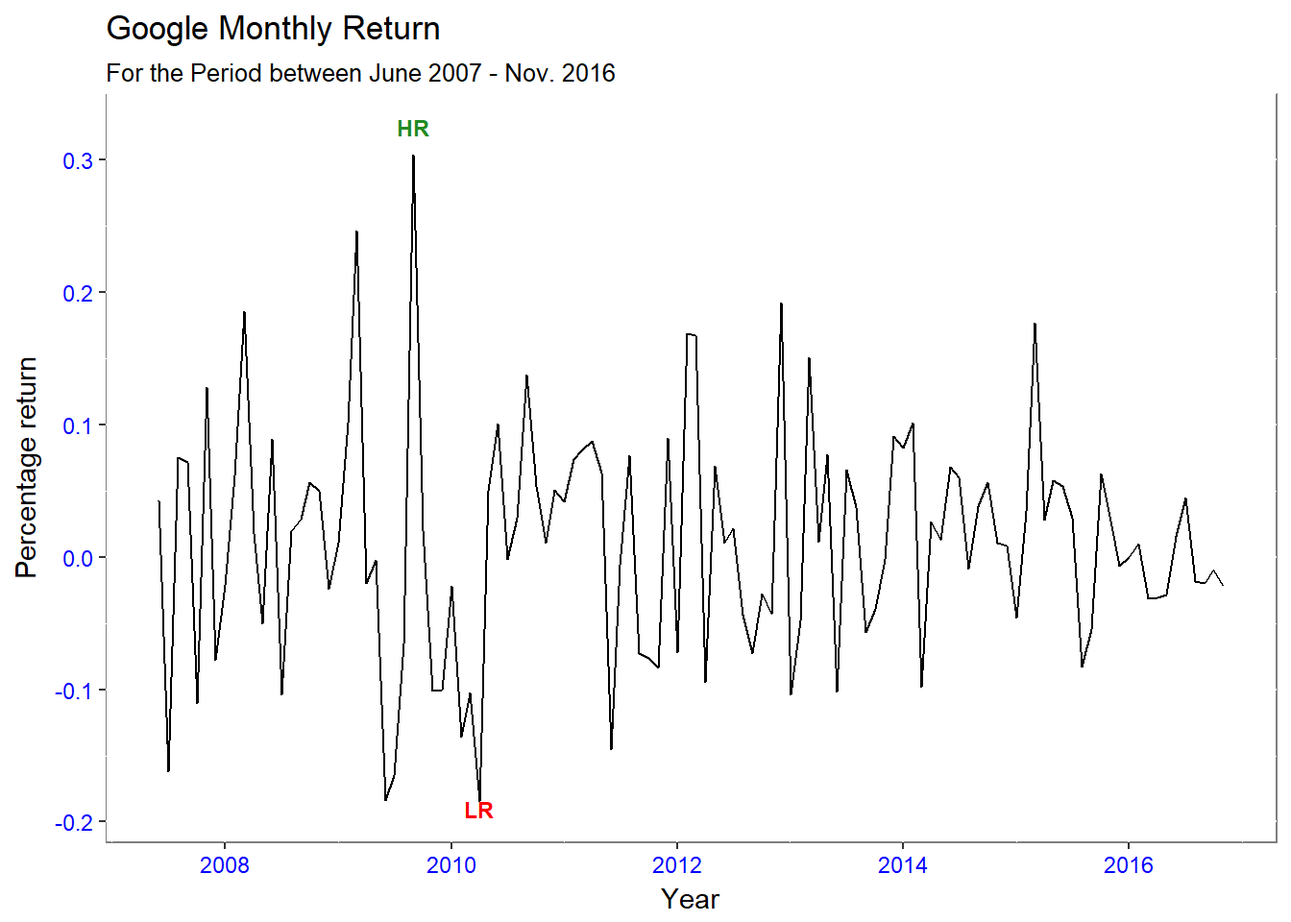
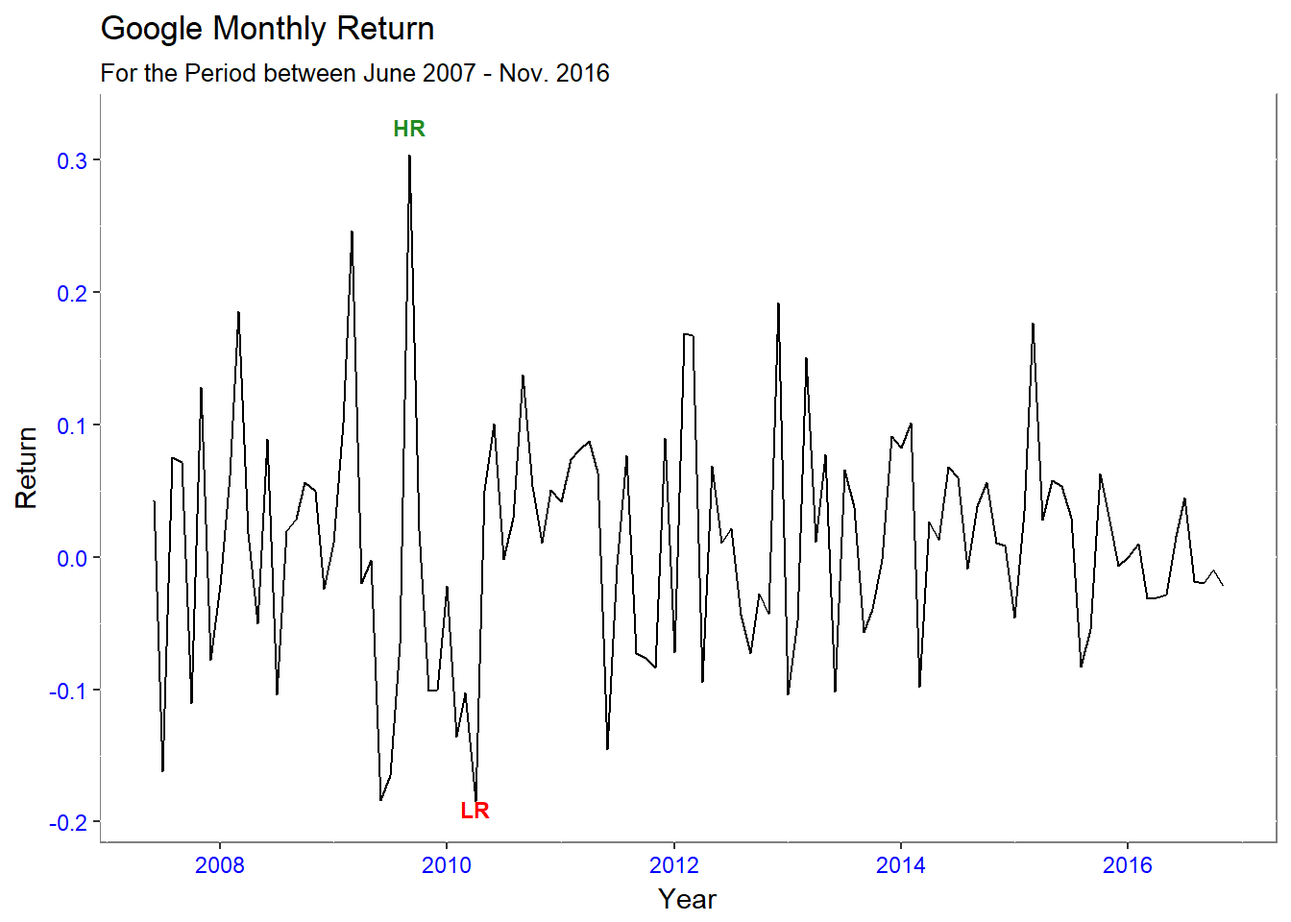
edits- changed labels on graphs

diff --git a/content/blog/2017-02-06-fund-returns.html b/content/blog/2017-02-06-fund-returns.html
@@ -76,7 +76,7 @@ g &lt;- g + ggtitle(&quot;Google Monthly Return&quot;, subtitle = &quot;For the 
             axis.title.x = element_text(size = rel(1.0), angle = 360))
 
 g &lt;- g + labs(x = &quot;Year&quot;,
-        y =&quot;Percentage return&quot;) 
+        y =&quot;Return&quot;) 
 
 g + annotate(&quot;text&quot;,x=as.Date(&quot;2009-09-01&quot;),y=0.3245,label=&quot;HR&quot;,fontface=&quot;bold&quot;,size=3, colour = &quot;forestgreen&quot;) +
 annotate(&quot;text&quot;,x=as.Date(&quot;2010-04-01&quot;),y=-0.1900,label=&quot;LR&quot;,fontface=&quot;bold&quot;,size=3,colour =&quot;red&quot;) </code></pre>
@@ -100,7 +100,7 @@ rm(&quot;p1&quot;,&quot;p2&quot;, &quot;p3&quot;,&quot;p4&quot;) # Removal of th
 p &lt;- ggplot(data = portfolio, aes(x = Year, y =PercentageReturn, colour = Stockticker))+geom_line()
 p + labs(
         x = &quot; Year&quot;,
-        y = &quot;Percentage return&quot;,
+        y = &quot;Return&quot;,
         colour = &quot;Stock ticker&quot;) +
     ggtitle(&quot; Apple, Amazon and Google Stock Returns&quot;,subtitle =&quot; For the period June 2007 - Nov. 2016&quot;)</code></pre>
 <p><img src="/blog/2017-02-06-fund-returns_files/figure-html/unnamed-chunk-7-1.png" width="672" /></p>
@@ -122,11 +122,11 @@ rm(&quot;p1&quot;,&quot;p2&quot;, &quot;p3&quot;,&quot;p4&quot;) # Removal of th
 <pre class="r"><code>merged_returns &lt;- merge.xts(AMZN,MSFT,AAPL,GOOG_) # merging the separate share returns into one xts object.
 
 dygraph(merged_returns, main = &quot;Amazon v Microsoft v Apple v Google&quot;) %&gt;% # Using pipes to connect the codes
-  dyAxis(&quot;y&quot;, label =&quot;%&quot;) %&gt;%
+  dyAxis(&quot;y&quot;, label =&quot;Return&quot;) %&gt;%
   dyAxis(&quot;x&quot;, label =&quot;Year&quot;) %&gt;%
   dyOptions(colors = RColorBrewer::brewer.pal(4, &quot;Set2&quot;)) </code></pre>
 <div id="htmlwidget-1" style="width:672px;height:480px;" class="dygraphs html-widget"></div>
-<script type="application/json" data-for="htmlwidget-1">{"x":{"attrs":{"axes":{"x":{"pixelsPerLabel":60,"drawAxis":true},"y":{"drawAxis":true}},"title":"Amazon v Microsoft v Apple v Google","labels":["month","AMZN","MSFT","AAPL","GOOG_"],"legend":"auto","retainDateWindow":false,"ylabel":"%","xlabel":"Year","stackedGraph":false,"fillGraph":false,"fillAlpha":0.15,"stepPlot":false,"drawPoints":false,"pointSize":1,"drawGapEdgePoints":false,"connectSeparatedPoints":false,"strokeWidth":1,"strokeBorderColor":"white","colors":["#66C2A5","#FC8D62","#8DA0CB","#E78AC3"],"colorValue":0.5,"colorSaturation":1,"includeZero":false,"drawAxesAtZero":false,"logscale":false,"axisTickSize":3,"axisLineColor":"black","axisLineWidth":0.3,"axisLabelColor":"black","axisLabelFontSize":14,"axisLabelWidth":60,"drawGrid":true,"gridLineWidth":0.3,"rightGap":5,"digitsAfterDecimal":2,"labelsKMB":false,"labelsKMG2":false,"labelsUTC":false,"maxNumberWidth":6,"animatedZooms":false,"mobileDisableYTouch":true},"scale":"monthly","annotations":[],"shadings":[],"events":[],"format":"date","data":[["2007-06-01T00:00:00.000Z","2007-07-01T00:00:00.000Z","2007-08-01T00:00:00.000Z","2007-09-01T00:00:00.000Z","2007-10-01T00:00:00.000Z","2007-11-01T00:00:00.000Z","2007-12-01T00:00:00.000Z","2008-01-01T00:00:00.000Z","2008-02-01T00:00:00.000Z","2008-03-01T00:00:00.000Z","2008-04-01T00:00:00.000Z","2008-05-01T00:00:00.000Z","2008-06-01T00:00:00.000Z","2008-07-01T00:00:00.000Z","2008-08-01T00:00:00.000Z","2008-09-01T00:00:00.000Z","2008-10-01T00:00:00.000Z","2008-11-01T00:00:00.000Z","2008-12-01T00:00:00.000Z","2009-01-01T00:00:00.000Z","2009-02-01T00:00:00.000Z","2009-03-01T00:00:00.000Z","2009-04-01T00:00:00.000Z","2009-05-01T00:00:00.000Z","2009-06-01T00:00:00.000Z","2009-07-01T00:00:00.000Z","2009-08-01T00:00:00.000Z","2009-09-01T00:00:00.000Z","2009-10-01T00:00:00.000Z","2009-11-01T00:00:00.000Z","2009-12-01T00:00:00.000Z","2010-01-01T00:00:00.000Z","2010-02-01T00:00:00.000Z","2010-03-01T00:00:00.000Z","2010-04-01T00:00:00.000Z","2010-05-01T00:00:00.000Z","2010-06-01T00:00:00.000Z","2010-07-01T00:00:00.000Z","2010-08-01T00:00:00.000Z","2010-09-01T00:00:00.000Z","2010-10-01T00:00:00.000Z","2010-11-01T00:00:00.000Z","2010-12-01T00:00:00.000Z","2011-01-01T00:00:00.000Z","2011-02-01T00:00:00.000Z","2011-03-01T00:00:00.000Z","2011-04-01T00:00:00.000Z","2011-05-01T00:00:00.000Z","2011-06-01T00:00:00.000Z","2011-07-01T00:00:00.000Z","2011-08-01T00:00:00.000Z","2011-09-01T00:00:00.000Z","2011-10-01T00:00:00.000Z","2011-11-01T00:00:00.000Z","2011-12-01T00:00:00.000Z","2012-01-01T00:00:00.000Z","2012-02-01T00:00:00.000Z","2012-03-01T00:00:00.000Z","2012-04-01T00:00:00.000Z","2012-05-01T00:00:00.000Z","2012-06-01T00:00:00.000Z","2012-07-01T00:00:00.000Z","2012-08-01T00:00:00.000Z","2012-09-01T00:00:00.000Z","2012-10-01T00:00:00.000Z","2012-11-01T00:00:00.000Z","2012-12-01T00:00:00.000Z","2013-01-01T00:00:00.000Z","2013-02-01T00:00:00.000Z","2013-03-01T00:00:00.000Z","2013-04-01T00:00:00.000Z","2013-05-01T00:00:00.000Z","2013-06-01T00:00:00.000Z","2013-07-01T00:00:00.000Z","2013-08-01T00:00:00.000Z","2013-09-01T00:00:00.000Z","2013-10-01T00:00:00.000Z","2013-11-01T00:00:00.000Z","2013-12-01T00:00:00.000Z","2014-01-01T00:00:00.000Z","2014-02-01T00:00:00.000Z","2014-03-01T00:00:00.000Z","2014-04-01T00:00:00.000Z","2014-05-01T00:00:00.000Z","2014-06-01T00:00:00.000Z","2014-07-01T00:00:00.000Z","2014-08-01T00:00:00.000Z","2014-09-01T00:00:00.000Z","2014-10-01T00:00:00.000Z","2014-11-01T00:00:00.000Z","2014-12-01T00:00:00.000Z","2015-01-01T00:00:00.000Z","2015-02-01T00:00:00.000Z","2015-03-01T00:00:00.000Z","2015-04-01T00:00:00.000Z","2015-05-01T00:00:00.000Z","2015-06-01T00:00:00.000Z","2015-07-01T00:00:00.000Z","2015-08-01T00:00:00.000Z","2015-09-01T00:00:00.000Z","2015-10-01T00:00:00.000Z","2015-11-01T00:00:00.000Z","2015-12-01T00:00:00.000Z","2016-01-01T00:00:00.000Z","2016-02-01T00:00:00.000Z","2016-03-01T00:00:00.000Z","2016-04-01T00:00:00.000Z","2016-05-01T00:00:00.000Z","2016-06-01T00:00:00.000Z","2016-07-01T00:00:00.000Z","2016-08-01T00:00:00.000Z","2016-09-01T00:00:00.000Z","2016-10-01T00:00:00.000Z","2016-11-01T00:00:00.000Z"],[-0.0494,-0.1647,-0.0243,-0.0361,-0.017,0.1176,-0.3048,0.1465,0.0418,0.1859,0.0591,-0.0218,-0.0454,0.039,0.0166,0.5413,0.1273,-0.0106,0.1481,0.0174,0.1657,-0.0429,0.0158,0.023,-0.1613,-0.1703,0.1059,0.1028,0.038,-0.1016,0.041,0.0586,-0.0996,-0.2133,-0.254,0.2009,0.147,0.1015,0.1335,0.0964,-0.0314,0.0727,0.0251,-0.0533,0.1499,0.2726,0.1439,-0.0102,-0.0677,-0.0559,0.1467,0.0098,-0.0849,-0.1291,0.079,0.0589,0.2582,0.052,0.0616,0.0262,-0.0576,0.0215,0.0395,0.087,0.0045,0.0397,0.0882,-0.0328,0.0046,-0.0126,-0.0994,-0.0998,0.1233,-0.0759,0.127,0.1451,-0.0819,0.0725,0.0217,0.0642,0.0244,-0.0843,0.0823,-0.0047,0.0583,-0.0046,0.0084,-0.0476,0.0606,0.0315,0.0847,-0.0672,0.1127,0.1644,0.0813,0.0131,-0.1006,0.0095,-0.0711,-0.0958,0.0277,0.0391,-0.0363,0.0832,-0.049,-0.0527,0.1086,-0.0835,0.1424,0.0723,-0.0212,0.1335,0.0177,0.0113],[0.0765,-0.0422,0.0127,-0.1125,-0.0585,0.0287,0.0326,0.0721,0.0642,0.0497,0.0261,0.017,0.0335,-0.084,-0.0106,0.0743,0.0284,-0.0398,-0.0163,-0.0055,0.0254,0.2495,-0.0842,0.0595,-0.0843,-0.1624,0.0434,0.0049,-0.0034,-0.0286,-0.0651,0.0653,-0.022,-0.1634,-0.0884,-0.0386,-0.1204,-0.0491,0.1375,0.1029,0.0376,0.1379,-0.0105,0.0539,0.0434,0.0781,0.0653,0.0364,-0.0755,0.0221,0.0216,0.0427,-0.1514,-0.1081,0.1217,-0.0858,0.0435,0.089,-0.047,0.1049,-0.0064,-0.0358,-0.0448,0.0209,-0.0288,0.0396,0.0538,-0.0231,-0.0643,0.0699,-0.0322,0.0149,0.1375,0.0819,0.0164,-0.0074,-0.0824,0.048,-0.0366,0.0527,-0.0344,-0.041,-0.0596,0.0034,0.0277,0.0211,0.0291,0.1569,0.0618,-0.0103,-0.0782,0.0564,-0.0036,0.064,0.085,-0.0189,0.0115,0.02,0.07,-0.0144,0.0205,0.0186,0.035,0.0592,0.0205,0.0127,0.0247,-0.0284,-0.1302,0.0931,-0.0727,0.1963,-0.0303,-0.0578],[0.0504,-0.093,-0.0842,0.1223,-0.1509,-0.0418,0.1867,-0.0016,0.1346,0.0533,0.1305,-0.0744,0.0105,-0.0131,0.0981,0.0742,0.2143,0.007,0.0796,0.051,0.1082,0.2377,-0.0407,0.087,-0.3166,-0.0764,0.1478,0.2122,0.0851,-0.1129,-0.0507,0.0666,-0.3296,-0.0534,-0.1387,-0.079,0.056,-0.0091,0.177,0.197,0.0793,0.0487,0.1472,0.0295,0.1019,0.017,0.0605,0.0541,-0.0886,0.0654,0.1485,0.111,-0.0161,-0.0208,0.0227,-0.055,0.1672,0.0607,0.0338,0.0367,0.052,0.0409,-0.0133,0.0046,-0.0066,-0.035,0.1633,-0.0145,-0.0091,0.0615,-0.0558,0.0597,0.1271,0.1883,0.1053,-0.026,-0.0107,0.0109,0.0458,0.0939,0.0028,-0.1076,-0.0124,-0.0907,-0.1441,-0.0253,0.0029,0.0003,0.0224,-0.1183,0.1412,0.0838,-0.0215,0.0964,0.0701,0.0089,-0.1077,0.0575,0.02,0.0994,0.0787,0.0277,0.0287,0.0775,-0.0171,0.072,0.106,-0.0719,0.0614,0.1008,-0.0314,0.0058,0.0453,-0.0372],[0.0429,-0.1619,0.0755,0.0716,-0.1104,0.1278,-0.0781,-0.0209,0.0617,0.1853,0.0177,-0.0502,0.0891,-0.1038,0.0194,0.0289,0.0563,0.0498,-0.0243,0.0103,0.101,0.2463,-0.0198,-0.0022,-0.1839,-0.165,-0.0652,0.3038,0.02,-0.1014,-0.1001,-0.0221,-0.1355,-0.1028,-0.1848,0.0501,0.1004,-0.0016,0.0298,0.1376,0.0537,0.0104,0.0509,0.042,0.074,0.0812,0.0874,0.0634,-0.1452,-0.0059,0.0765,-0.073,-0.0762,-0.0838,0.0897,-0.0718,0.1684,0.1672,-0.0945,0.0688,0.0108,0.0217,-0.0434,-0.0727,-0.0277,-0.0428,0.1922,-0.1039,-0.0479,0.1507,0.0114,0.0776,-0.1019,0.0657,0.0372,-0.0567,-0.0397,-0.0014,0.0912,0.0823,0.1013,-0.0983,0.0266,0.0129,0.0683,0.0602,-0.0087,0.0383,0.0566,0.0105,0.0084,-0.046,0.0343,0.1766,0.0281,0.0577,0.0538,0.0294,-0.0827,-0.0544,0.0631,0.0275,-0.0064,0,0.0101,-0.0317,-0.0309,-0.0285,0.0154,0.0447,-0.0186,-0.0195,-0.0097,-0.0218]],"fixedtz":false,"tzone":"UTC"},"evals":[],"jsHooks":[]}</script>
+<script type="application/json" data-for="htmlwidget-1">{"x":{"attrs":{"axes":{"x":{"pixelsPerLabel":60,"drawAxis":true},"y":{"drawAxis":true}},"title":"Amazon v Microsoft v Apple v Google","labels":["month","AMZN","MSFT","AAPL","GOOG_"],"legend":"auto","retainDateWindow":false,"ylabel":"Return","xlabel":"Year","stackedGraph":false,"fillGraph":false,"fillAlpha":0.15,"stepPlot":false,"drawPoints":false,"pointSize":1,"drawGapEdgePoints":false,"connectSeparatedPoints":false,"strokeWidth":1,"strokeBorderColor":"white","colors":["#66C2A5","#FC8D62","#8DA0CB","#E78AC3"],"colorValue":0.5,"colorSaturation":1,"includeZero":false,"drawAxesAtZero":false,"logscale":false,"axisTickSize":3,"axisLineColor":"black","axisLineWidth":0.3,"axisLabelColor":"black","axisLabelFontSize":14,"axisLabelWidth":60,"drawGrid":true,"gridLineWidth":0.3,"rightGap":5,"digitsAfterDecimal":2,"labelsKMB":false,"labelsKMG2":false,"labelsUTC":false,"maxNumberWidth":6,"animatedZooms":false,"mobileDisableYTouch":true},"scale":"monthly","annotations":[],"shadings":[],"events":[],"format":"date","data":[["2007-06-01T00:00:00.000Z","2007-07-01T00:00:00.000Z","2007-08-01T00:00:00.000Z","2007-09-01T00:00:00.000Z","2007-10-01T00:00:00.000Z","2007-11-01T00:00:00.000Z","2007-12-01T00:00:00.000Z","2008-01-01T00:00:00.000Z","2008-02-01T00:00:00.000Z","2008-03-01T00:00:00.000Z","2008-04-01T00:00:00.000Z","2008-05-01T00:00:00.000Z","2008-06-01T00:00:00.000Z","2008-07-01T00:00:00.000Z","2008-08-01T00:00:00.000Z","2008-09-01T00:00:00.000Z","2008-10-01T00:00:00.000Z","2008-11-01T00:00:00.000Z","2008-12-01T00:00:00.000Z","2009-01-01T00:00:00.000Z","2009-02-01T00:00:00.000Z","2009-03-01T00:00:00.000Z","2009-04-01T00:00:00.000Z","2009-05-01T00:00:00.000Z","2009-06-01T00:00:00.000Z","2009-07-01T00:00:00.000Z","2009-08-01T00:00:00.000Z","2009-09-01T00:00:00.000Z","2009-10-01T00:00:00.000Z","2009-11-01T00:00:00.000Z","2009-12-01T00:00:00.000Z","2010-01-01T00:00:00.000Z","2010-02-01T00:00:00.000Z","2010-03-01T00:00:00.000Z","2010-04-01T00:00:00.000Z","2010-05-01T00:00:00.000Z","2010-06-01T00:00:00.000Z","2010-07-01T00:00:00.000Z","2010-08-01T00:00:00.000Z","2010-09-01T00:00:00.000Z","2010-10-01T00:00:00.000Z","2010-11-01T00:00:00.000Z","2010-12-01T00:00:00.000Z","2011-01-01T00:00:00.000Z","2011-02-01T00:00:00.000Z","2011-03-01T00:00:00.000Z","2011-04-01T00:00:00.000Z","2011-05-01T00:00:00.000Z","2011-06-01T00:00:00.000Z","2011-07-01T00:00:00.000Z","2011-08-01T00:00:00.000Z","2011-09-01T00:00:00.000Z","2011-10-01T00:00:00.000Z","2011-11-01T00:00:00.000Z","2011-12-01T00:00:00.000Z","2012-01-01T00:00:00.000Z","2012-02-01T00:00:00.000Z","2012-03-01T00:00:00.000Z","2012-04-01T00:00:00.000Z","2012-05-01T00:00:00.000Z","2012-06-01T00:00:00.000Z","2012-07-01T00:00:00.000Z","2012-08-01T00:00:00.000Z","2012-09-01T00:00:00.000Z","2012-10-01T00:00:00.000Z","2012-11-01T00:00:00.000Z","2012-12-01T00:00:00.000Z","2013-01-01T00:00:00.000Z","2013-02-01T00:00:00.000Z","2013-03-01T00:00:00.000Z","2013-04-01T00:00:00.000Z","2013-05-01T00:00:00.000Z","2013-06-01T00:00:00.000Z","2013-07-01T00:00:00.000Z","2013-08-01T00:00:00.000Z","2013-09-01T00:00:00.000Z","2013-10-01T00:00:00.000Z","2013-11-01T00:00:00.000Z","2013-12-01T00:00:00.000Z","2014-01-01T00:00:00.000Z","2014-02-01T00:00:00.000Z","2014-03-01T00:00:00.000Z","2014-04-01T00:00:00.000Z","2014-05-01T00:00:00.000Z","2014-06-01T00:00:00.000Z","2014-07-01T00:00:00.000Z","2014-08-01T00:00:00.000Z","2014-09-01T00:00:00.000Z","2014-10-01T00:00:00.000Z","2014-11-01T00:00:00.000Z","2014-12-01T00:00:00.000Z","2015-01-01T00:00:00.000Z","2015-02-01T00:00:00.000Z","2015-03-01T00:00:00.000Z","2015-04-01T00:00:00.000Z","2015-05-01T00:00:00.000Z","2015-06-01T00:00:00.000Z","2015-07-01T00:00:00.000Z","2015-08-01T00:00:00.000Z","2015-09-01T00:00:00.000Z","2015-10-01T00:00:00.000Z","2015-11-01T00:00:00.000Z","2015-12-01T00:00:00.000Z","2016-01-01T00:00:00.000Z","2016-02-01T00:00:00.000Z","2016-03-01T00:00:00.000Z","2016-04-01T00:00:00.000Z","2016-05-01T00:00:00.000Z","2016-06-01T00:00:00.000Z","2016-07-01T00:00:00.000Z","2016-08-01T00:00:00.000Z","2016-09-01T00:00:00.000Z","2016-10-01T00:00:00.000Z","2016-11-01T00:00:00.000Z"],[-0.0494,-0.1647,-0.0243,-0.0361,-0.017,0.1176,-0.3048,0.1465,0.0418,0.1859,0.0591,-0.0218,-0.0454,0.039,0.0166,0.5413,0.1273,-0.0106,0.1481,0.0174,0.1657,-0.0429,0.0158,0.023,-0.1613,-0.1703,0.1059,0.1028,0.038,-0.1016,0.041,0.0586,-0.0996,-0.2133,-0.254,0.2009,0.147,0.1015,0.1335,0.0964,-0.0314,0.0727,0.0251,-0.0533,0.1499,0.2726,0.1439,-0.0102,-0.0677,-0.0559,0.1467,0.0098,-0.0849,-0.1291,0.079,0.0589,0.2582,0.052,0.0616,0.0262,-0.0576,0.0215,0.0395,0.087,0.0045,0.0397,0.0882,-0.0328,0.0046,-0.0126,-0.0994,-0.0998,0.1233,-0.0759,0.127,0.1451,-0.0819,0.0725,0.0217,0.0642,0.0244,-0.0843,0.0823,-0.0047,0.0583,-0.0046,0.0084,-0.0476,0.0606,0.0315,0.0847,-0.0672,0.1127,0.1644,0.0813,0.0131,-0.1006,0.0095,-0.0711,-0.0958,0.0277,0.0391,-0.0363,0.0832,-0.049,-0.0527,0.1086,-0.0835,0.1424,0.0723,-0.0212,0.1335,0.0177,0.0113],[0.0765,-0.0422,0.0127,-0.1125,-0.0585,0.0287,0.0326,0.0721,0.0642,0.0497,0.0261,0.017,0.0335,-0.084,-0.0106,0.0743,0.0284,-0.0398,-0.0163,-0.0055,0.0254,0.2495,-0.0842,0.0595,-0.0843,-0.1624,0.0434,0.0049,-0.0034,-0.0286,-0.0651,0.0653,-0.022,-0.1634,-0.0884,-0.0386,-0.1204,-0.0491,0.1375,0.1029,0.0376,0.1379,-0.0105,0.0539,0.0434,0.0781,0.0653,0.0364,-0.0755,0.0221,0.0216,0.0427,-0.1514,-0.1081,0.1217,-0.0858,0.0435,0.089,-0.047,0.1049,-0.0064,-0.0358,-0.0448,0.0209,-0.0288,0.0396,0.0538,-0.0231,-0.0643,0.0699,-0.0322,0.0149,0.1375,0.0819,0.0164,-0.0074,-0.0824,0.048,-0.0366,0.0527,-0.0344,-0.041,-0.0596,0.0034,0.0277,0.0211,0.0291,0.1569,0.0618,-0.0103,-0.0782,0.0564,-0.0036,0.064,0.085,-0.0189,0.0115,0.02,0.07,-0.0144,0.0205,0.0186,0.035,0.0592,0.0205,0.0127,0.0247,-0.0284,-0.1302,0.0931,-0.0727,0.1963,-0.0303,-0.0578],[0.0504,-0.093,-0.0842,0.1223,-0.1509,-0.0418,0.1867,-0.0016,0.1346,0.0533,0.1305,-0.0744,0.0105,-0.0131,0.0981,0.0742,0.2143,0.007,0.0796,0.051,0.1082,0.2377,-0.0407,0.087,-0.3166,-0.0764,0.1478,0.2122,0.0851,-0.1129,-0.0507,0.0666,-0.3296,-0.0534,-0.1387,-0.079,0.056,-0.0091,0.177,0.197,0.0793,0.0487,0.1472,0.0295,0.1019,0.017,0.0605,0.0541,-0.0886,0.0654,0.1485,0.111,-0.0161,-0.0208,0.0227,-0.055,0.1672,0.0607,0.0338,0.0367,0.052,0.0409,-0.0133,0.0046,-0.0066,-0.035,0.1633,-0.0145,-0.0091,0.0615,-0.0558,0.0597,0.1271,0.1883,0.1053,-0.026,-0.0107,0.0109,0.0458,0.0939,0.0028,-0.1076,-0.0124,-0.0907,-0.1441,-0.0253,0.0029,0.0003,0.0224,-0.1183,0.1412,0.0838,-0.0215,0.0964,0.0701,0.0089,-0.1077,0.0575,0.02,0.0994,0.0787,0.0277,0.0287,0.0775,-0.0171,0.072,0.106,-0.0719,0.0614,0.1008,-0.0314,0.0058,0.0453,-0.0372],[0.0429,-0.1619,0.0755,0.0716,-0.1104,0.1278,-0.0781,-0.0209,0.0617,0.1853,0.0177,-0.0502,0.0891,-0.1038,0.0194,0.0289,0.0563,0.0498,-0.0243,0.0103,0.101,0.2463,-0.0198,-0.0022,-0.1839,-0.165,-0.0652,0.3038,0.02,-0.1014,-0.1001,-0.0221,-0.1355,-0.1028,-0.1848,0.0501,0.1004,-0.0016,0.0298,0.1376,0.0537,0.0104,0.0509,0.042,0.074,0.0812,0.0874,0.0634,-0.1452,-0.0059,0.0765,-0.073,-0.0762,-0.0838,0.0897,-0.0718,0.1684,0.1672,-0.0945,0.0688,0.0108,0.0217,-0.0434,-0.0727,-0.0277,-0.0428,0.1922,-0.1039,-0.0479,0.1507,0.0114,0.0776,-0.1019,0.0657,0.0372,-0.0567,-0.0397,-0.0014,0.0912,0.0823,0.1013,-0.0983,0.0266,0.0129,0.0683,0.0602,-0.0087,0.0383,0.0566,0.0105,0.0084,-0.046,0.0343,0.1766,0.0281,0.0577,0.0538,0.0294,-0.0827,-0.0544,0.0631,0.0275,-0.0064,0,0.0101,-0.0317,-0.0309,-0.0285,0.0154,0.0447,-0.0186,-0.0195,-0.0097,-0.0218]],"fixedtz":false,"tzone":"UTC"},"evals":[],"jsHooks":[]}</script>
 <pre class="r"><code># Let&#39;s now evaluate the portfolio
 
 ## Part of the code is adapted from Jonathan Regenstein from RStudio
@@ -140,9 +140,9 @@ monthly_P_return &lt;-  Return.portfolio(R = merged_returns, weights = w)
 
 # Use dygraphs to chart the portfolio monthly returns.
 dygraph(monthly_P_return, main = &quot;Portfolio Monthly Return&quot;) %&gt;% 
-  dyAxis(&quot;y&quot;, label = &quot;%&quot;)</code></pre>
+  dyAxis(&quot;y&quot;, label = &quot;Return&quot;)</code></pre>
 <div id="htmlwidget-2" style="width:672px;height:480px;" class="dygraphs html-widget"></div>
-<script type="application/json" data-for="htmlwidget-2">{"x":{"attrs":{"axes":{"x":{"pixelsPerLabel":60},"y":[]},"title":"Portfolio Monthly Return","labels":["month","portfolio.returns"],"legend":"auto","retainDateWindow":false,"ylabel":"%"},"scale":"monthly","annotations":[],"shadings":[],"events":[],"format":"date","data":[["2007-06-01T00:00:00.000Z","2007-07-01T00:00:00.000Z","2007-08-01T00:00:00.000Z","2007-09-01T00:00:00.000Z","2007-10-01T00:00:00.000Z","2007-11-01T00:00:00.000Z","2007-12-01T00:00:00.000Z","2008-01-01T00:00:00.000Z","2008-02-01T00:00:00.000Z","2008-03-01T00:00:00.000Z","2008-04-01T00:00:00.000Z","2008-05-01T00:00:00.000Z","2008-06-01T00:00:00.000Z","2008-07-01T00:00:00.000Z","2008-08-01T00:00:00.000Z","2008-09-01T00:00:00.000Z","2008-10-01T00:00:00.000Z","2008-11-01T00:00:00.000Z","2008-12-01T00:00:00.000Z","2009-01-01T00:00:00.000Z","2009-02-01T00:00:00.000Z","2009-03-01T00:00:00.000Z","2009-04-01T00:00:00.000Z","2009-05-01T00:00:00.000Z","2009-06-01T00:00:00.000Z","2009-07-01T00:00:00.000Z","2009-08-01T00:00:00.000Z","2009-09-01T00:00:00.000Z","2009-10-01T00:00:00.000Z","2009-11-01T00:00:00.000Z","2009-12-01T00:00:00.000Z","2010-01-01T00:00:00.000Z","2010-02-01T00:00:00.000Z","2010-03-01T00:00:00.000Z","2010-04-01T00:00:00.000Z","2010-05-01T00:00:00.000Z","2010-06-01T00:00:00.000Z","2010-07-01T00:00:00.000Z","2010-08-01T00:00:00.000Z","2010-09-01T00:00:00.000Z","2010-10-01T00:00:00.000Z","2010-11-01T00:00:00.000Z","2010-12-01T00:00:00.000Z","2011-01-01T00:00:00.000Z","2011-02-01T00:00:00.000Z","2011-03-01T00:00:00.000Z","2011-04-01T00:00:00.000Z","2011-05-01T00:00:00.000Z","2011-06-01T00:00:00.000Z","2011-07-01T00:00:00.000Z","2011-08-01T00:00:00.000Z","2011-09-01T00:00:00.000Z","2011-10-01T00:00:00.000Z","2011-11-01T00:00:00.000Z","2011-12-01T00:00:00.000Z","2012-01-01T00:00:00.000Z","2012-02-01T00:00:00.000Z","2012-03-01T00:00:00.000Z","2012-04-01T00:00:00.000Z","2012-05-01T00:00:00.000Z","2012-06-01T00:00:00.000Z","2012-07-01T00:00:00.000Z","2012-08-01T00:00:00.000Z","2012-09-01T00:00:00.000Z","2012-10-01T00:00:00.000Z","2012-11-01T00:00:00.000Z","2012-12-01T00:00:00.000Z","2013-01-01T00:00:00.000Z","2013-02-01T00:00:00.000Z","2013-03-01T00:00:00.000Z","2013-04-01T00:00:00.000Z","2013-05-01T00:00:00.000Z","2013-06-01T00:00:00.000Z","2013-07-01T00:00:00.000Z","2013-08-01T00:00:00.000Z","2013-09-01T00:00:00.000Z","2013-10-01T00:00:00.000Z","2013-11-01T00:00:00.000Z","2013-12-01T00:00:00.000Z","2014-01-01T00:00:00.000Z","2014-02-01T00:00:00.000Z","2014-03-01T00:00:00.000Z","2014-04-01T00:00:00.000Z","2014-05-01T00:00:00.000Z","2014-06-01T00:00:00.000Z","2014-07-01T00:00:00.000Z","2014-08-01T00:00:00.000Z","2014-09-01T00:00:00.000Z","2014-10-01T00:00:00.000Z","2014-11-01T00:00:00.000Z","2014-12-01T00:00:00.000Z","2015-01-01T00:00:00.000Z","2015-02-01T00:00:00.000Z","2015-03-01T00:00:00.000Z","2015-04-01T00:00:00.000Z","2015-05-01T00:00:00.000Z","2015-06-01T00:00:00.000Z","2015-07-01T00:00:00.000Z","2015-08-01T00:00:00.000Z","2015-09-01T00:00:00.000Z","2015-10-01T00:00:00.000Z","2015-11-01T00:00:00.000Z","2015-12-01T00:00:00.000Z","2016-01-01T00:00:00.000Z","2016-02-01T00:00:00.000Z","2016-03-01T00:00:00.000Z","2016-04-01T00:00:00.000Z","2016-05-01T00:00:00.000Z","2016-06-01T00:00:00.000Z","2016-07-01T00:00:00.000Z","2016-08-01T00:00:00.000Z","2016-09-01T00:00:00.000Z","2016-10-01T00:00:00.000Z","2016-11-01T00:00:00.000Z"],[0.0301,-0.113708579264149,-0.00559377618293577,0.00786916658390391,-0.0890376855326902,0.0573282327219986,-0.042831236358701,0.0383461039325024,0.0783346839674659,0.110040420027639,0.0582383125115564,-0.0344335250838131,0.0261523950823555,-0.0478623279379287,0.0331144327765902,0.153792419636912,0.112247310719632,0.00149789245166887,0.054078256694402,0.0219968844818357,0.107410539310229,0.157949829530945,-0.0303242130102647,0.0456092318025723,-0.207253112502889,-0.138845865576245,0.0704315483642639,0.159410574555523,0.0444362569993406,-0.0939799707838271,-0.0404127420638229,0.0473124465574433,-0.179029145823455,-0.133223126326917,-0.168983528865221,0.0226911227230571,0.0545710218674125,0.0200600134166751,0.126687155535587,0.136949498384811,0.0319663136685859,0.0629283509111709,0.0658632611747769,0.0108594282541148,0.100731340517966,0.112092560764811,0.0935879851387789,0.0307000599218057,-0.0896041659407795,0.00567424356447033,0.117031202204561,0.0393133206973839,-0.0653368536592297,-0.0745111009596598,0.0605165850969047,-0.0270639430888725,0.182222549972333,0.0747917934575102,0.0161030525226051,0.0439754771241554,0.00196574485688727,0.023824968906363,-0.00307950548584668,0.0245898567238754,-0.00710635623220512,-0.00144247555173027,0.127014948314502,-0.0322341862713332,-0.0131976821622654,0.0434413285162729,-0.0616681017627327,0.00325737773151791,0.0971383327948778,0.0820742787274269,0.0954013200129236,0.0197984608178754,-0.0416550042325423,0.0311362189903313,0.0354200825155371,0.0805186574008934,0.0156770687270402,-0.0947383246215934,0.0168736628752737,-0.045342644860437,-0.0393671996182131,-0.00348182621093573,0.00562309891495172,0.000399990154805074,0.0443709706335647,-0.0361770701926236,0.0783950004828757,0.00559979139341671,0.0355777863984561,0.12989006298412,0.0704084370854767,0.0143011984430976,-0.074298178725309,0.0311996800267746,-0.025672623394713,-0.00432640519518579,0.0541278171096493,0.0305294323072862,0.00339043170589948,0.0674459827309137,-0.0204227034786852,0.0145534744768461,0.0823615119482068,-0.0666482643528976,0.061405211562503,0.0852604189772439,-0.0301942016267269,0.0573998666609123,0.0242677157471534,-0.0213148296410851]]},"evals":[],"jsHooks":[]}</script>
+<script type="application/json" data-for="htmlwidget-2">{"x":{"attrs":{"axes":{"x":{"pixelsPerLabel":60},"y":[]},"title":"Portfolio Monthly Return","labels":["month","portfolio.returns"],"legend":"auto","retainDateWindow":false,"ylabel":"Return"},"scale":"monthly","annotations":[],"shadings":[],"events":[],"format":"date","data":[["2007-06-01T00:00:00.000Z","2007-07-01T00:00:00.000Z","2007-08-01T00:00:00.000Z","2007-09-01T00:00:00.000Z","2007-10-01T00:00:00.000Z","2007-11-01T00:00:00.000Z","2007-12-01T00:00:00.000Z","2008-01-01T00:00:00.000Z","2008-02-01T00:00:00.000Z","2008-03-01T00:00:00.000Z","2008-04-01T00:00:00.000Z","2008-05-01T00:00:00.000Z","2008-06-01T00:00:00.000Z","2008-07-01T00:00:00.000Z","2008-08-01T00:00:00.000Z","2008-09-01T00:00:00.000Z","2008-10-01T00:00:00.000Z","2008-11-01T00:00:00.000Z","2008-12-01T00:00:00.000Z","2009-01-01T00:00:00.000Z","2009-02-01T00:00:00.000Z","2009-03-01T00:00:00.000Z","2009-04-01T00:00:00.000Z","2009-05-01T00:00:00.000Z","2009-06-01T00:00:00.000Z","2009-07-01T00:00:00.000Z","2009-08-01T00:00:00.000Z","2009-09-01T00:00:00.000Z","2009-10-01T00:00:00.000Z","2009-11-01T00:00:00.000Z","2009-12-01T00:00:00.000Z","2010-01-01T00:00:00.000Z","2010-02-01T00:00:00.000Z","2010-03-01T00:00:00.000Z","2010-04-01T00:00:00.000Z","2010-05-01T00:00:00.000Z","2010-06-01T00:00:00.000Z","2010-07-01T00:00:00.000Z","2010-08-01T00:00:00.000Z","2010-09-01T00:00:00.000Z","2010-10-01T00:00:00.000Z","2010-11-01T00:00:00.000Z","2010-12-01T00:00:00.000Z","2011-01-01T00:00:00.000Z","2011-02-01T00:00:00.000Z","2011-03-01T00:00:00.000Z","2011-04-01T00:00:00.000Z","2011-05-01T00:00:00.000Z","2011-06-01T00:00:00.000Z","2011-07-01T00:00:00.000Z","2011-08-01T00:00:00.000Z","2011-09-01T00:00:00.000Z","2011-10-01T00:00:00.000Z","2011-11-01T00:00:00.000Z","2011-12-01T00:00:00.000Z","2012-01-01T00:00:00.000Z","2012-02-01T00:00:00.000Z","2012-03-01T00:00:00.000Z","2012-04-01T00:00:00.000Z","2012-05-01T00:00:00.000Z","2012-06-01T00:00:00.000Z","2012-07-01T00:00:00.000Z","2012-08-01T00:00:00.000Z","2012-09-01T00:00:00.000Z","2012-10-01T00:00:00.000Z","2012-11-01T00:00:00.000Z","2012-12-01T00:00:00.000Z","2013-01-01T00:00:00.000Z","2013-02-01T00:00:00.000Z","2013-03-01T00:00:00.000Z","2013-04-01T00:00:00.000Z","2013-05-01T00:00:00.000Z","2013-06-01T00:00:00.000Z","2013-07-01T00:00:00.000Z","2013-08-01T00:00:00.000Z","2013-09-01T00:00:00.000Z","2013-10-01T00:00:00.000Z","2013-11-01T00:00:00.000Z","2013-12-01T00:00:00.000Z","2014-01-01T00:00:00.000Z","2014-02-01T00:00:00.000Z","2014-03-01T00:00:00.000Z","2014-04-01T00:00:00.000Z","2014-05-01T00:00:00.000Z","2014-06-01T00:00:00.000Z","2014-07-01T00:00:00.000Z","2014-08-01T00:00:00.000Z","2014-09-01T00:00:00.000Z","2014-10-01T00:00:00.000Z","2014-11-01T00:00:00.000Z","2014-12-01T00:00:00.000Z","2015-01-01T00:00:00.000Z","2015-02-01T00:00:00.000Z","2015-03-01T00:00:00.000Z","2015-04-01T00:00:00.000Z","2015-05-01T00:00:00.000Z","2015-06-01T00:00:00.000Z","2015-07-01T00:00:00.000Z","2015-08-01T00:00:00.000Z","2015-09-01T00:00:00.000Z","2015-10-01T00:00:00.000Z","2015-11-01T00:00:00.000Z","2015-12-01T00:00:00.000Z","2016-01-01T00:00:00.000Z","2016-02-01T00:00:00.000Z","2016-03-01T00:00:00.000Z","2016-04-01T00:00:00.000Z","2016-05-01T00:00:00.000Z","2016-06-01T00:00:00.000Z","2016-07-01T00:00:00.000Z","2016-08-01T00:00:00.000Z","2016-09-01T00:00:00.000Z","2016-10-01T00:00:00.000Z","2016-11-01T00:00:00.000Z"],[0.0301,-0.113708579264149,-0.00559377618293577,0.00786916658390391,-0.0890376855326902,0.0573282327219986,-0.042831236358701,0.0383461039325024,0.0783346839674659,0.110040420027639,0.0582383125115564,-0.0344335250838131,0.0261523950823555,-0.0478623279379287,0.0331144327765902,0.153792419636912,0.112247310719632,0.00149789245166887,0.054078256694402,0.0219968844818357,0.107410539310229,0.157949829530945,-0.0303242130102647,0.0456092318025723,-0.207253112502889,-0.138845865576245,0.0704315483642639,0.159410574555523,0.0444362569993406,-0.0939799707838271,-0.0404127420638229,0.0473124465574433,-0.179029145823455,-0.133223126326917,-0.168983528865221,0.0226911227230571,0.0545710218674125,0.0200600134166751,0.126687155535587,0.136949498384811,0.0319663136685859,0.0629283509111709,0.0658632611747769,0.0108594282541148,0.100731340517966,0.112092560764811,0.0935879851387789,0.0307000599218057,-0.0896041659407795,0.00567424356447033,0.117031202204561,0.0393133206973839,-0.0653368536592297,-0.0745111009596598,0.0605165850969047,-0.0270639430888725,0.182222549972333,0.0747917934575102,0.0161030525226051,0.0439754771241554,0.00196574485688727,0.023824968906363,-0.00307950548584668,0.0245898567238754,-0.00710635623220512,-0.00144247555173027,0.127014948314502,-0.0322341862713332,-0.0131976821622654,0.0434413285162729,-0.0616681017627327,0.00325737773151791,0.0971383327948778,0.0820742787274269,0.0954013200129236,0.0197984608178754,-0.0416550042325423,0.0311362189903313,0.0354200825155371,0.0805186574008934,0.0156770687270402,-0.0947383246215934,0.0168736628752737,-0.045342644860437,-0.0393671996182131,-0.00348182621093573,0.00562309891495172,0.000399990154805074,0.0443709706335647,-0.0361770701926236,0.0783950004828757,0.00559979139341671,0.0355777863984561,0.12989006298412,0.0704084370854767,0.0143011984430976,-0.074298178725309,0.0311996800267746,-0.025672623394713,-0.00432640519518579,0.0541278171096493,0.0305294323072862,0.00339043170589948,0.0674459827309137,-0.0204227034786852,0.0145534744768461,0.0823615119482068,-0.0666482643528976,0.061405211562503,0.0852604189772439,-0.0301942016267269,0.0573998666609123,0.0242677157471534,-0.0213148296410851]]},"evals":[],"jsHooks":[]}</script>
 <pre class="r"><code># Add the wealth.index = TRUE argument and, instead of returning monthly returns,
 # the function will return the growth of $1 invested in the portfolio.
 dollar_growth &lt;- Return.portfolio(merged_returns, weights = w, wealth.index = TRUE)

diff --git a/layouts/partials/article_meta.html b/layouts/partials/article_meta.html
@@ -16,15 +16,6 @@
       <i class="fa fa-twitter" aria-hidden="true" title="Share via Twitter"></i>
     </a>
 
-    <a href="http://www.facebook.com/home?{{ (querify "status" (print .Title " " .Permalink " via @" .Site.Params.social.facebook )) | safeURL }}" target="_blank">
-        <i class="fa fa-facebook" aria-hidden="true" title="Share via Facebook"></i>
-      </a>
-
-    {{ with .Site.Params.githubContentURL }}
-    {{ $.Scratch.Set "filePath" (replaceRE "[.]html$" ".Rmd" $.File.Path) }}
-    <a href="{{ . }}{{ $.Scratch.Get "filePath" }}"><i class="fa fa-pencil-square-o" aria-hidden="true" ></i></a>
-    {{ end }}
-
-  </span>
-
-</div>
+    <a href="https://www.facebook.com/sharer/sharer.php?u=https%3A%2F%2Fparse.com" target="_blank" rel="noopener">
+      <i class="fa fa-facebook" aria-hidden="true" title="Share via Facebook"></i>
+    </a>

diff --git a/content/blog/2017-07-18-luse-analysis.html b/content/blog/2017-07-18-luse-analysis.html
@@ -48,6 +48,6 @@ banner: "img/bloomberg.png"
 <div class="footnotes">
 <hr />
 <ol>
-<li id="fn1"><p>P.S: I used R statistical Computing Language for my analysis. For the data and the code,you can find them on <a href="https://github.com/ASimumba/LuSE_Data">my GitHub account</a>. Do check them out and run your own analysis.<a href="#fnref1">↩</a></p></li>
+<li id="fn1"><p>For the data and the code,you can find them on <a href="https://github.com/ASimumba/LuSE_Data">my GitHub account</a>. Do check them out and run your own analysis.<a href="#fnref1">↩</a></p></li>
 </ol>
 </div>

diff --git a/content/blog/2017-07-03-building-a-website-with-blogdown-and-hugo.md b/content/blog/2017-07-03-building-a-website-with-blogdown-and-hugo.md
@@ -20,11 +20,13 @@ In this short post. I will detail my journey building my website using [__blogdo
 
 For starters, there is [offical documentation](https://bookdown.org/yihui/blogdown/) which is so far still under developement, but nonetheless it has already covered most of the pertinent issues to get you started buiding your own desired website. 
 
-If you are coming from the `Google blogspot` or `wordpress` dungeon, then by default I will assume you are going to love this new introduction to the blogsphere. It's worth to make mention though that this, may not look quite easy and appealing to people with very little computers/tech aquaintance. For your own information, I used to be an Accounting/finace major in another life; apparently things had to balance, maybe so, some of the world's things have to find a reconciliation point after all. This I hope if you've never built a website or even a blog it will help you believe you can do it, just the way I am doing it!
+If you are coming from the `Google blogspot` or `wordpress` dungeon, then by default I will assume you are going to love this new introduction to the blogsphere. It's worth to make mention though that this, may not look quite easy and appealing to people with very little computers/tech aquaintance. For your own information, I am an Accounting/finace major in another life; apparently things had to balance, maybe so, some of the world's things have to find a reconciliation point after all. This I hope if you've never built a website or even a blog it will help you believe you can do it, just the way I am doing it!
 
 Enough with the stories, buckle up we jump right into it.
 
-For the theme, I was initially spoiled for choice, I tried a few before finally settling for the [Universal theme](https://github.com/devcows/hugo-universal-theme). It's both well enriched with great visual aesthetics as well as a clean presentation. I have changed quite a lot of stuff to meet my own preferences and for what I intend to use the website for. If your choice is to get up and running without bothering to learn a bit of _HTML_ or _CSS_ for further alterations and customizations, the [Hugo site](https://themes.gohugo.io/) has plenty of templates to suit different tastes.
+For the theme, I was initially spoiled for choice, I tried a few before finally settling for the [Universal theme](https://github.com/devcows/hugo-universal-theme). It's both well enriched with great visual aesthetics as well as a clean presentation. I have changed quite a lot of stuff to meet my own preferences and for what I intend to use the website for. If your choice is to get up and running without bothering to learn a bit of _HTML_ and _CSS_ for further alterations and customizations, the [Hugo site](https://themes.gohugo.io/) has plenty of templates to suit different tastes.
 
 <img src="/img/hugo-universal-theme.png" height = "50" width="50" alt = "default theme interface"/>
 ![hugo-iniversal-theme](/img/hugo-universal-theme.png)
+
+
